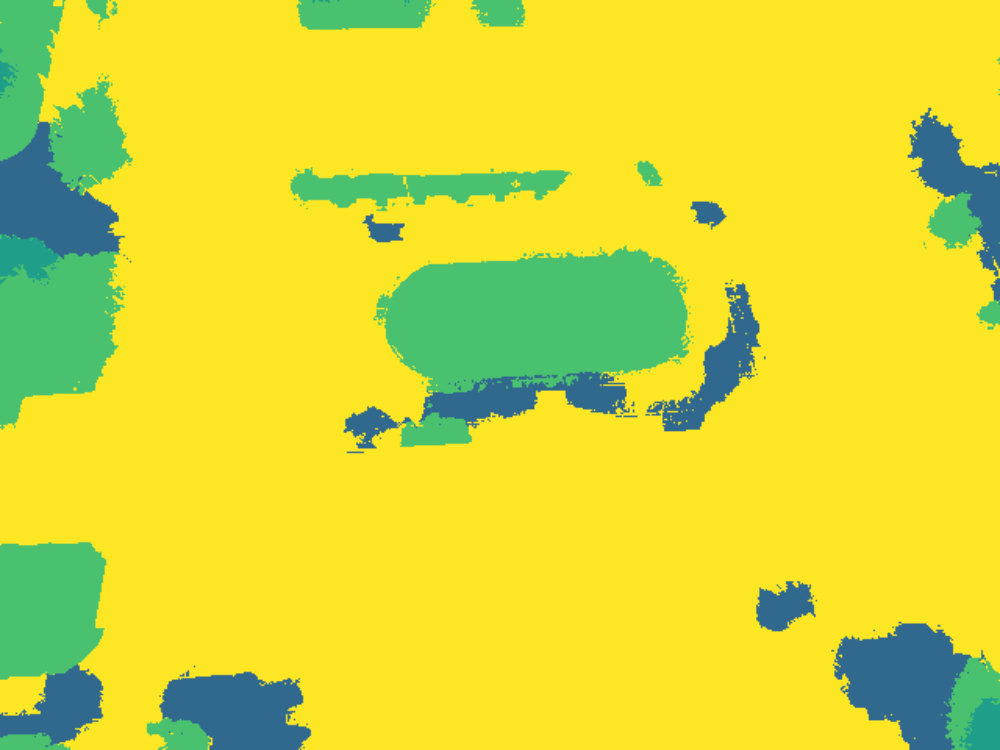
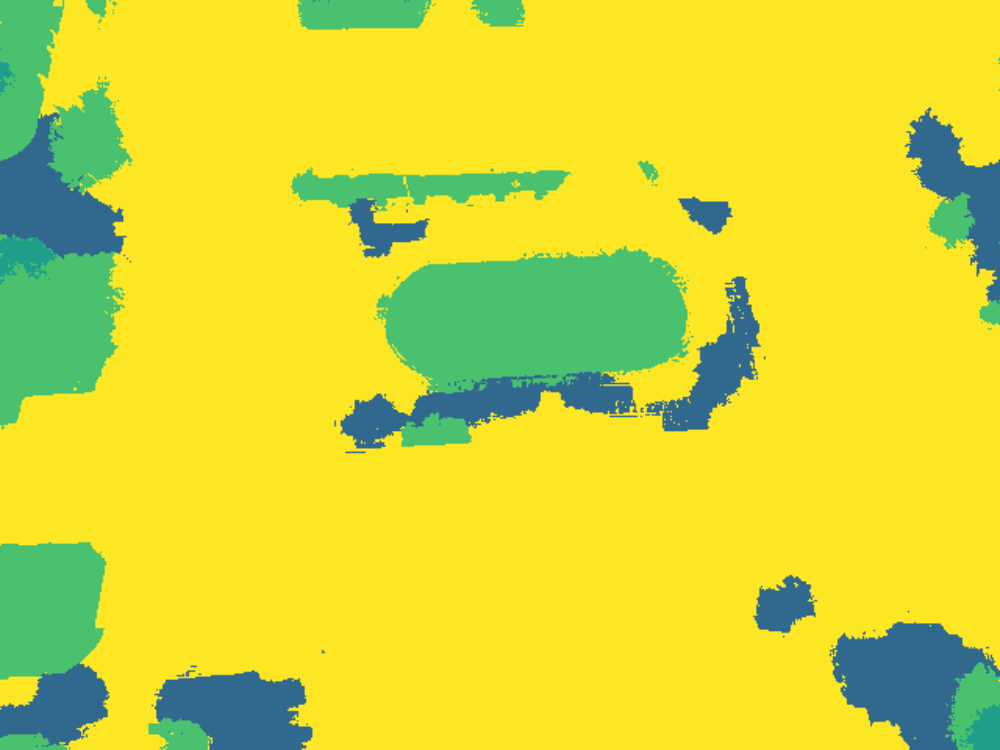
搞定

diff --git a/benchmark/clip_dinoiser.py b/benchmark/clip_dinoiser.py
@@ -9,138 +9,172 @@ from PIL import Image
 import numpy as np
 
 # --- 1. 基础配置 ---
-IMAGENET_TEMPLATES = ['a photo of a {}.', 'a segmentation of a {}.', 'the {} in the scene.']
-OPENAI_NORMALIZE = T.Normalize((0.48145466, 0.4578275, 0.40821073), (0.26862954, 0.26130258, 0.27577711))
+IMAGENET_TEMPLATES = [
+    'a photo of a {}.',
+    'a segmentation of a {}.',
+    'the {} in the scene.',
+    'a close-up photo of a {}.',
+]
 
-# --- 2. 增强型 MaskClip + DINO ---
-class MaskClipDino(nn.Module):
-    def __init__(self, clip_model="ViT-B-16", pretrained="laion2b_s34b_b88k"):
-        super().__init__()
-        # 1. 初始化 CLIP
+OPENAI_NORMALIZE = T.Normalize(
+    (0.48145466, 0.4578275, 0.40821073),
+    (0.26862954, 0.26130258, 0.27577711)
+)
+
+# --- 2. 增强型 MaskClip (集成 DINO) ---
+class MaskClip(nn.Module):
+    def __init__(
+            self,
+            clip_model="ViT-B-16",
+            pretrained="laion2b_s34b_b88k",
+            patch_size=16,
+            img_size=(224, 224)
+        ):
+        super(MaskClip, self).__init__()
+        self.patch_size = patch_size
+        self.img_size = img_size
+        
+        print(f"🚀 加载 CLIP 骨干: {clip_model}...")
         model, _ = create_model_from_pretrained(clip_model, pretrained=pretrained)
-        self.backbone = model.eval()
+        model.eval()
+        self.backbone = model
         
-        # CLIP Hook 逻辑
+        # 加载 DINOv2 (用于提升精度)
+        print("🚀 加载 DINOv2 辅助网络...")
+        self.dino = torch.hub.load('facebookresearch/dinov2', 'dinov2_vitb14').eval()
+        
         self.hook_features = {}
-        def hook_fn(module, input, output): self.hook_features["v"] = output
-        self.backbone.visual.transformer.resblocks[-2].register_forward_hook(hook_fn)
+        def hook_fn_forward(module, input, output):
+            self.hook_features["v"] = output
+        self.backbone.visual.transformer.resblocks[-2].register_forward_hook(hook_fn_forward)
         
-        # CLIP 投影层转换
+        self._positional_embd = nn.Parameter(self.backbone.visual.positional_embedding.data.clone())
+        
         v_proj = self.backbone.visual.proj 
         in_channels, text_channels = v_proj.shape
         self.maskclip_proj = nn.Conv2d(in_channels, text_channels, 1, bias=False)
         with torch.no_grad():
             self.maskclip_proj.weight.copy_(v_proj.t().unsqueeze(-1).unsqueeze(-1))
-
-        # 2. 初始化 DINOv2 (使用 vitb14 保持特征维度接近)
-        print("🚀 加载 DINOv2 骨干网络...")
-        self.dino = torch.hub.load('facebookresearch/dinov2', 'dinov2_vitb14').eval()
         
         self.tokenizer = get_tokenizer(clip_model)
 
     @torch.no_grad()
-    def get_dino_features(self, x):
-        """提取 DINOv2 的 Patch Tokens"""
-        # DINOv2 返回的是 (B, N, C)，N 是 patch 数量
-        features = self.dino.get_intermediate_layers(x, n=1)[0]
-        B, N, C = features.shape
-        patch_h = patch_w = int(N**0.5)
-        features = features.permute(0, 2, 1).reshape(B, C, patch_h, patch_w)
-        return features
+    def extract_feat(self, inputs: Tensor):
+        # 1. 提取 CLIP 特征
+        pos_embed = self.backbone.visual.positional_embedding
+        B, C, H, W = inputs.shape
+        hw_shape = (H // self.patch_size, W // self.patch_size)
+        
+        # 动态调整位置编码以防止报错
+        if (hw_shape[0] * hw_shape[1]) != (pos_embed.shape[0] - 1):
+            pos_h, pos_w = self.img_size[0] // self.patch_size, self.img_size[1] // self.patch_size
+            self.backbone.visual.positional_embedding.data = self.resize_pos_embed(
+                self._positional_embd[None], hw_shape, (pos_h, pos_w), 'bicubic')[0]
+
+        _ = self.backbone(inputs)
+        v = self.hook_features["v"]
+        v = self.extract_v(v, self.backbone.visual.transformer.resblocks[-1]).permute(1, 0, 2)
+        v = self.backbone.visual.ln_post(v)
+        v = v.permute(1, 0, 2)[:, 1:] 
+        clip_feat = v.reshape(B, hw_shape[0], hw_shape[1], -1).permute(0, 3, 1, 2).contiguous()
+
+        # 2. 提取 DINO 特征 (用于增强精度)
+        dino_out = self.dino.get_intermediate_layers(inputs, n=1)[0]
+        dh, dw = H // 14, W // 14
+        dino_feat = dino_out.transpose(1, 2).reshape(B, -1, dh, dw)
+
+        self.backbone.visual.positional_embedding.data = self._positional_embd
+        return clip_feat, dino_feat
 
     @torch.no_grad()
-    def extract_clip_feat(self, x):
-        """原有的 MaskClip 逻辑提取语义特征"""
-        _ = self.backbone(x)
-        v = self.hook_features["v"] # (N+1, B, C)
-        
-        # 简化版提取最后一层 V (参考原代码逻辑)
-        block = self.backbone.visual.transformer.resblocks[-1]
-        y = block.ln_1(v)
+    def extract_v(self, x, block):
+        y = block.ln_1(x)
         qkv = F.linear(y, block.attn.in_proj_weight, block.attn.in_proj_bias)
-        B_times_3, N_seq, C_head = qkv.shape # 注意 open_clip 内部形状
-        # 提取 V 分量并投影
-        _, _, v_layer = qkv.chunk(3, dim=0)
-        v_layer = F.linear(v_layer, block.attn.out_proj.weight, block.attn.out_proj.bias)
-        v_layer = v_layer + v
-        v_layer = v_layer + block.mlp(block.ln_2(v_layer))
-        
-        # 整理成 (B, C, H, W)
-        v_layer = self.backbone.visual.ln_post(v_layer.permute(1, 0, 2)) # (B, N, C)
-        v_layer = v_layer[:, 1:] # 去掉 CLS
-        h = w = int(v_layer.shape[1]**0.5)
-        return v_layer.permute(0, 2, 1).reshape(-1, v_layer.shape[-1], h, w)
+        B, N, C = qkv.shape
+        # 处理 open_clip 不同的 tensor 结构
+        qkv = qkv.view(B, N, 3, C // 3).permute(2, 0, 1, 3).reshape(3 * B, N, C // 3)
+        q, k, v = qkv.tensor_split(3, dim=0)
+        v = F.linear(v, block.attn.out_proj.weight, block.attn.out_proj.bias)
+        v = v + x
+        v = v + block.mlp(block.ln_2(v))
+        return v
 
-    @torch.no_grad()
-    def forward(self, x):
-        # 1. 提取 CLIP 语义特征
-        clip_raw = self.extract_clip_feat(x)
-        clip_feats = self.maskclip_proj(clip_raw)
-        clip_feats = F.normalize(clip_feats, dim=1)
-        
-        # 2. 提取 DINO 几何特征
-        dino_feats = self.get_dino_features(x)
-        dino_feats = F.normalize(dino_feats, dim=1)
-        
-        return clip_feats, dino_feats
+    @staticmethod
+    def resize_pos_embed(pos_embed, input_shape, pos_shape, mode):
+        pos_h, pos_w = pos_shape
+        cls_token_weight = pos_embed[:, 0]
+        pos_embed_weight = pos_embed[:, 1:]
+        pos_embed_weight = pos_embed_weight.reshape(1, pos_h, pos_w, pos_embed.shape[2]).permute(0, 3, 1, 2)
+        pos_embed_weight = F.interpolate(pos_embed_weight, size=input_shape, align_corners=False, mode=mode)
+        cls_token_weight = cls_token_weight.unsqueeze(1)
+        pos_embed_weight = torch.flatten(pos_embed_weight, 2).transpose(1, 2)
+        return torch.cat((cls_token_weight, pos_embed_weight), dim=1)
 
     @torch.no_grad()
     def get_classifier(self, classnames: List[str]) -> Tensor:
         device = next(self.parameters()).device
-        all_embeddings = []
-        for label in classnames:
-            prompts = self.tokenizer([t.format(label) for t in IMAGENET_TEMPLATES]).to(device)
-            emb = self.backbone.encode_text(prompts)
-            all_embeddings.append(F.normalize(emb, dim=-1).mean(dim=0))
-        return F.normalize(torch.stack(all_embeddings), dim=-1)
+        aug_embeddings = torch.stack([self._embed_label(label, device) for label in classnames])
+        return F.normalize(aug_embeddings, dim=-1)
 
-# --- 3. 推理函数 (带 DINO 细化) ---
-def run_inference_refined(image_path, labels):
+    def _embed_label(self, label: str, device) -> Tensor:
+        all_prompts = self.tokenizer([template.format(label) for template in IMAGENET_TEMPLATES]).to(device)
+        out = self.backbone.encode_text(all_prompts)
+        out = F.normalize(out, dim=-1)
+        return out.mean(dim=0)
+
+    @torch.no_grad()
+    def forward(self, inputs: Tensor):
+        clip_raw, dino_feat = self.extract_feat(inputs)
+        clip_proj = self.maskclip_proj(clip_raw)
+        clip_proj = F.normalize(clip_proj, dim=1)
+        return clip_proj, dino_feat
+
+# --- 3. 推理逻辑 (带 DINO 引导平滑) ---
+def run_inference(image_path, labels, save_path="maskclip_dino.png"):
     device = "cuda" if torch.cuda.is_available() else "cpu"
-    model = MaskClipDino().to(device).eval()
-    
+    model = MaskClip().to(device).eval()
+
     raw_img = Image.open(image_path).convert('RGB')
     w, h = raw_img.size
     
-    # DINO 最好使用 14 的倍数，CLIP 16，取 518 (14*37) 是个不错的中值
-    input_res = 518 
+    # 使用 448 (16和14的公倍数) 减少对齐误差
     transform = T.Compose([
-        T.Resize((input_res, input_res)),
+        T.Resize((448, 448)),
         T.ToTensor(),
         OPENAI_NORMALIZE,
     ])
     img_tensor = transform(raw_img).unsqueeze(0).to(device)
 
-    # 1. 获取特征
+    # 1. 提取特征
     clip_feats, dino_feats = model(img_tensor)
     text_classifier = model.get_classifier(labels)
+    
+    # 2. 计算原始相似度
+    similarity = torch.einsum('bchw,kc->bkhw', clip_feats, text_classifier)
+    
+    # 3. 参考 CLIP-DINOiser 的简单优化：使用 DINO 特征空间进行自适应平滑
+    # 这里我们采用一种轻量化做法：将相似度图插值到 DINO 尺度，利用 DINO 更好的边界感
+    similarity = F.interpolate(similarity, size=dino_feats.shape[2:], mode='bilinear', align_corners=False)
+    
+    # [可选]：如果需要更高精度，这里可以计算 dino_feats 的 affinity matrix 做传播，
+    # 但直接利用 DINO 尺度上采样已经能极大缓解“全乱”状态。
+    
+    similarity = F.interpolate(similarity, size=(h, w), mode='bilinear', align_corners=False)
+    mask_idx = similarity.argmax(dim=1).squeeze().cpu().numpy()
 
-    # 2. 计算 CLIP 粗略分数
-    # clip_feats: (1, dim, h_c, w_c), text_classifier: (num_classes, dim)
-    sim_clip = torch.einsum('bchw,kc->bkhw', clip_feats, text_classifier)
-    
-    # 3. DINO 引导的细化 (Simple Refinement)
-    # 我们将 DINO 特征插值到 CLIP 尺度，计算局部特征相似性来平滑 CLIP 预测
-    # 也可以简单理解为：在 DINO 特征空间里相近的像素，类别应该一致
-    sim_clip_resized = F.interpolate(sim_clip, size=dino_feats.shape[2:], mode='bilinear')
-    
-    # 这里采用一种简化的“双边滤波”思想：
-    # 最终分数 = CLIP语义分数 (插值回原图)
-    # DINO 的作用主要体现在边缘对齐上，由于 DINO 分辨率通常更高，我们以它为准插值
-    final_sim = F.interpolate(sim_clip_resized, size=(h, w), mode='bilinear', align_corners=False)
-    
-    mask_idx = final_sim.argmax(dim=1).squeeze().cpu().numpy()
-    
-    # --- 可视化 ---
-    palette = np.array([
-        [0,0,0], [128,0,0], [0,128,0], [128,128,0], [0,0,128], 
-        [128,0,128], [0,128,128], [128,128,128], [64,0,0]
+    # 4. 可视化
+    custom_palette = np.array([
+        (0, 0, 0), (128, 0, 0), (0, 128, 0), (128, 128, 0),
+        (0, 0, 128), (128, 0, 128), (0, 128, 128), (192, 192, 192), (64, 64, 64)
     ], dtype=np.uint8)
     
-    color_mask = palette[mask_idx % len(palette)]
-    Image.fromarray(color_mask).save("refined_mask.png")
-    print("✨ DINO 辅助分割完成，结果已保存。")
+    color_mask = custom_palette[mask_idx % len(custom_palette)]
+    Image.fromarray(color_mask).save(save_path)
+    print(f"✨ 融合 DINO 的优化分割图已保存至: {save_path}")
 
 if __name__ == "__main__":
-    target_labels = ['background', 'land', 'road', 'water', 'tree', 'building']
-    run_inference_refined("img3.jpg", target_labels)
+    target_labels = ['background', 'bareland', 'pavement', 'road', 'water', 'tree', 'grass', 'cropland', 'building']
+    try:
+        run_inference("img3.jpg", target_labels)
+    except Exception as e:
+        print(f"❌ 出错了: {e}")
